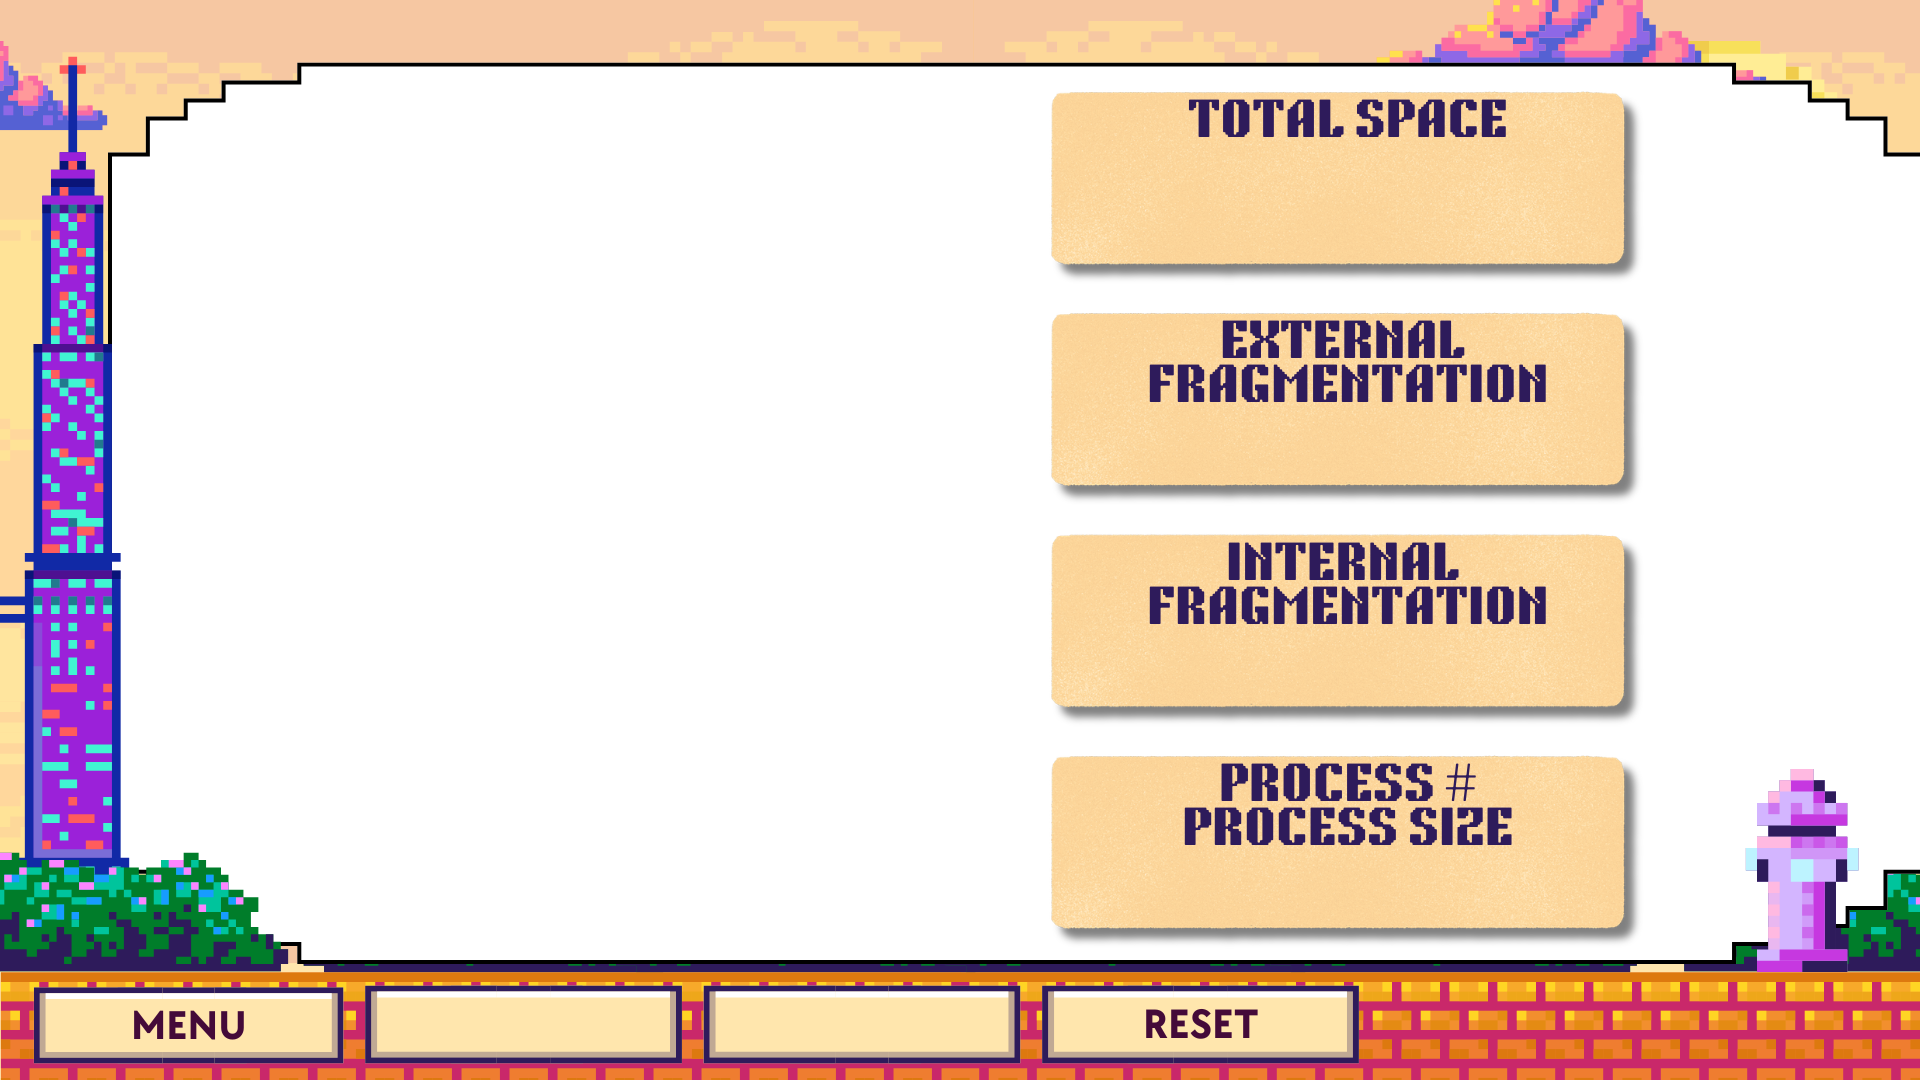
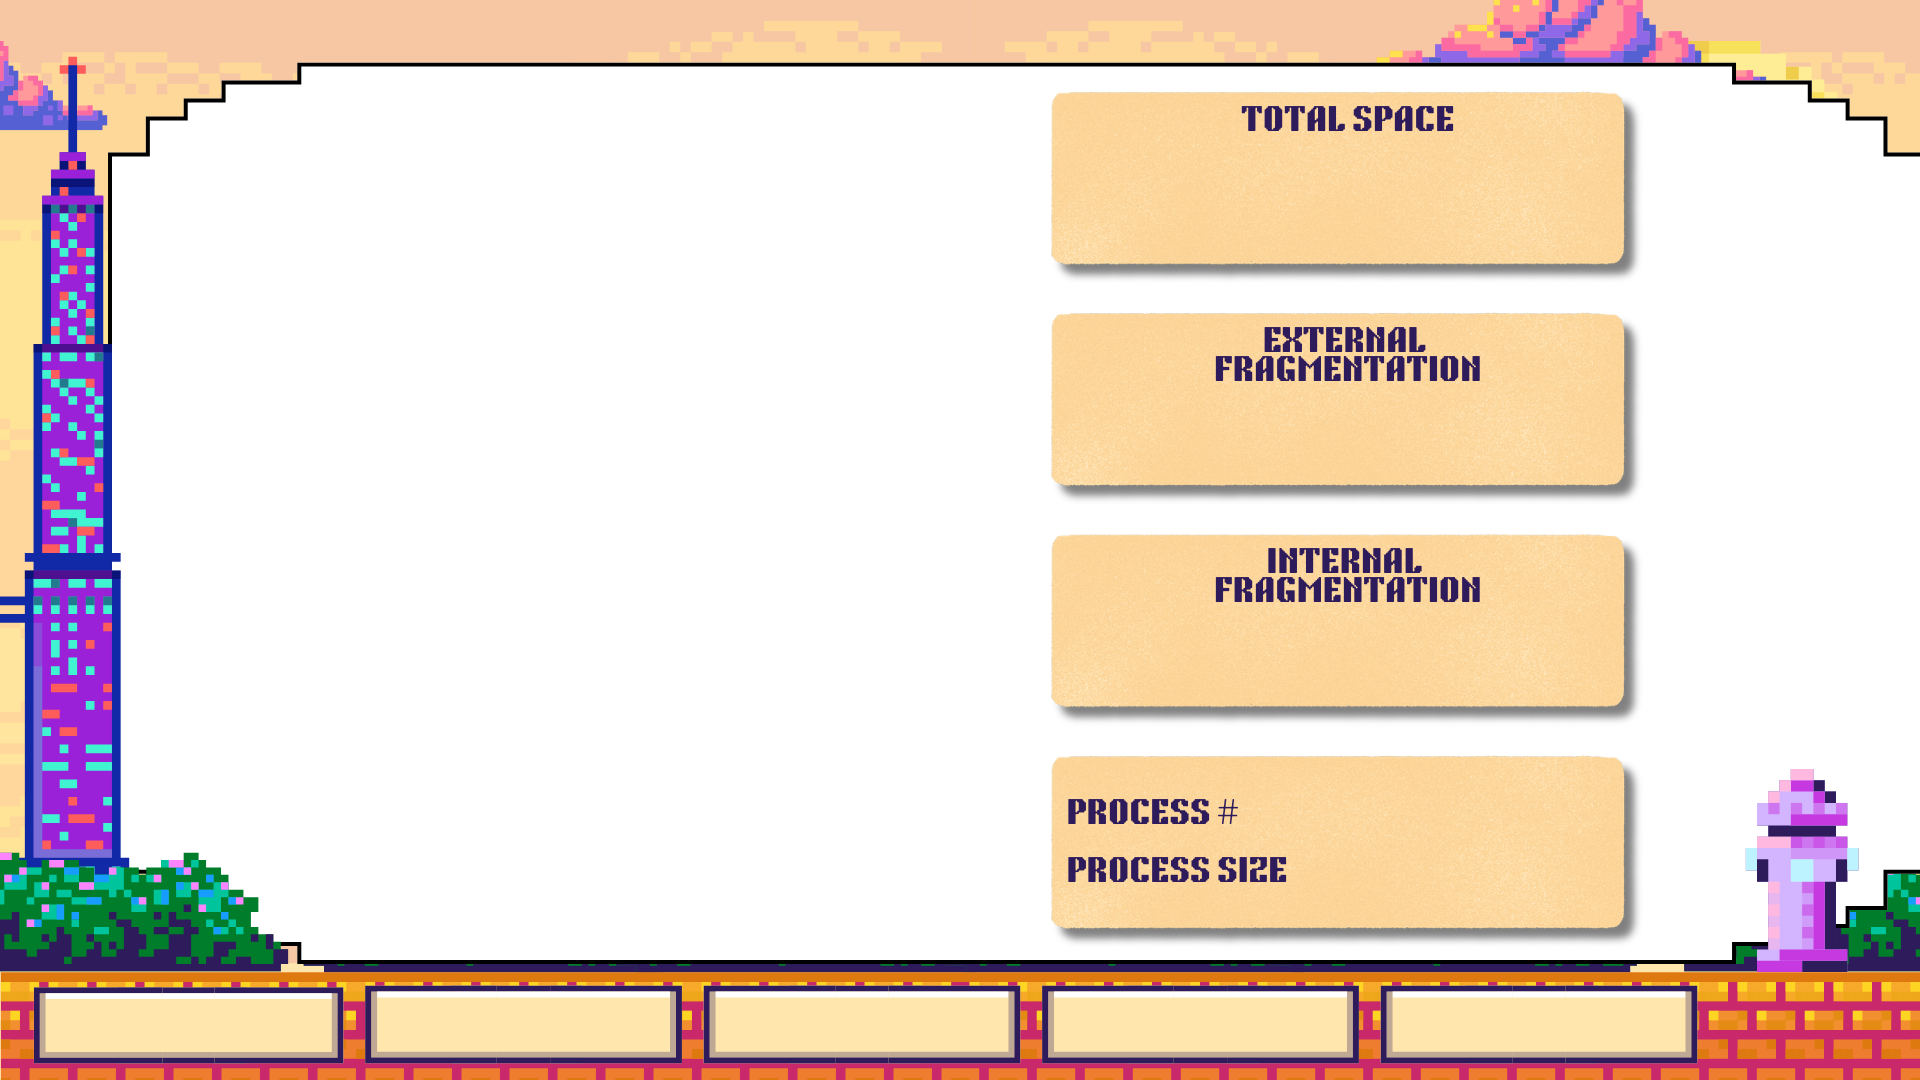
fix: coordinates of buttons and infos

diff --git a/memory_management/gui_config.py b/memory_management/gui_config.py
@@ -17,10 +17,10 @@ WINDOW_SETUP = {
 # 1. STATISTICS DASHBOARD CARDS (Right side trackers)
 # =========================================================
 STATS_LAYOUT = {
-    "right_edge_offset": 300,  # Center X position for the text readouts
+    "right_edge_offset": 1350,  # Center X position for the text readouts
     "total_space_y": 200,
-    "external_frag_y": 380,
-    "internal_frag_y": 560,
+    "external_frag_y": 430,
+    "internal_frag_y": 650,
     "font": ("Courier", 32, "bold")
 }
 
@@ -28,21 +28,21 @@ STATS_LAYOUT = {
 # 2. INTERACTIVE ENTRY TEXT FIELDS & MANUAL CONTROLS
 # =========================================================
 INPUTS_LAYOUT = {
-    "right_edge_offset": 450,        # Base X anchor position for input entries
-    "button_x_offset": 130,          # Added to push buttons to the right of inputs
+    "right_edge_offset": 1350,        # Base X anchor position for input entries
+    "button_x_offset": 150,          # Added to push buttons to the right of inputs
     
     # ROW 1: Process ID Entry + ALLOCATE Button (Y matching)
-    "pid_y_offset": -240,            # 960 - 240 = 720px
-    "alloc_btn_y_offset": -245,      # -5px shift to align top edge nicely
+    "pid_y_offset": -160,            
+    "alloc_btn_y_offset": -177,      
     
     # ROW 2: Process Size Entry + DEALLOCATE Button (Y matching)
-    "size_y_offset": -180,           # 960 - 180 = 780px
-    "dealloc_btn_y_offset": -185,    # -5px shift to align top edge nicely
+    "size_y_offset": -110,           
+    "dealloc_btn_y_offset": -130,    
     
-    "entry_width": 8,
+    "entry_width": 10,
     "button_width": 110,             # Widened to fit text fully
     "button_height": 35,
-    "font_entry": ("Arial", 14, "bold"),
+    "font_entry": ("Arial", 15, "bold"),
     "font_button": ("Arial", 10, "bold")
 }
 
